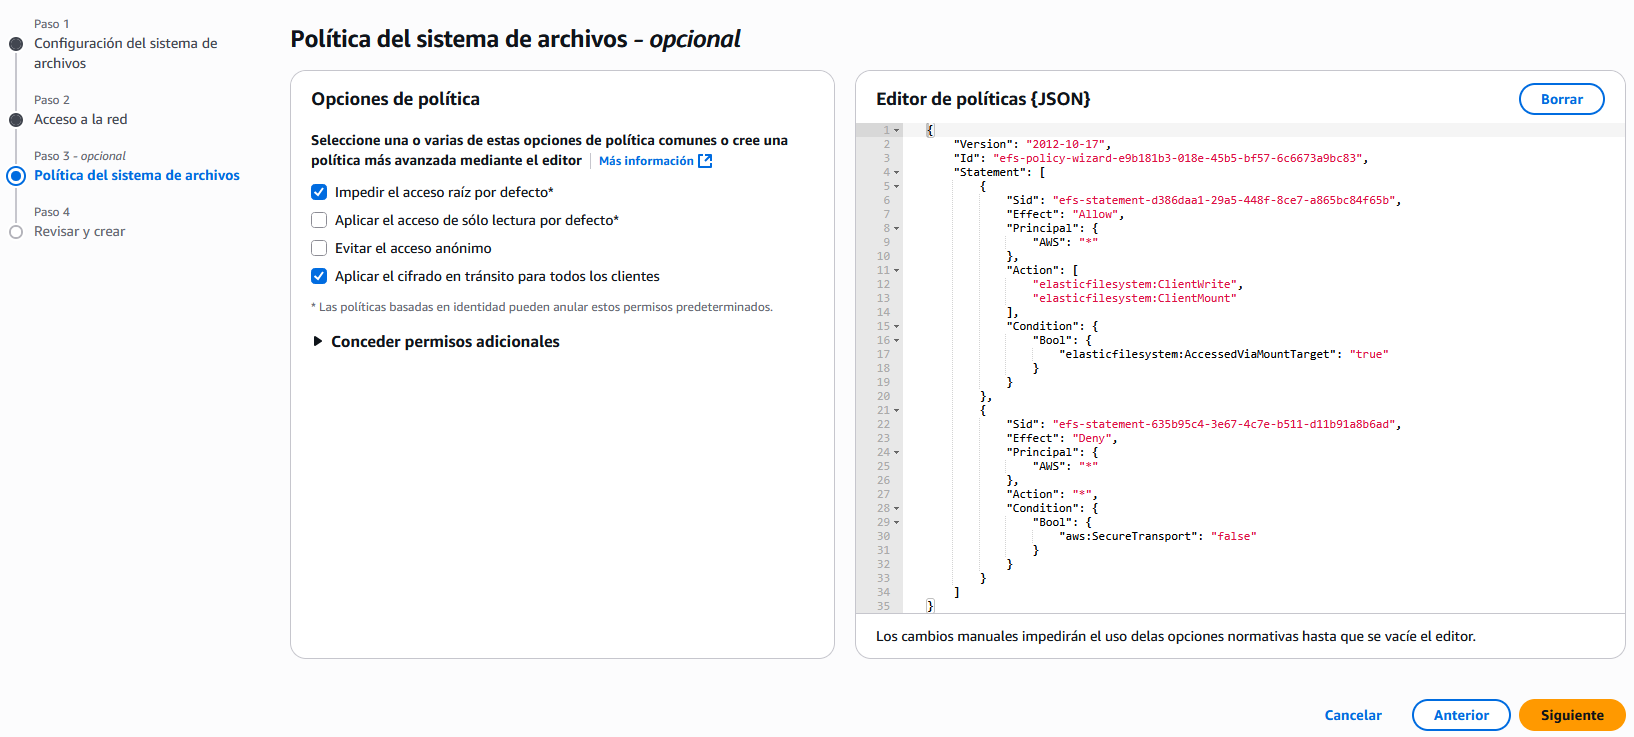
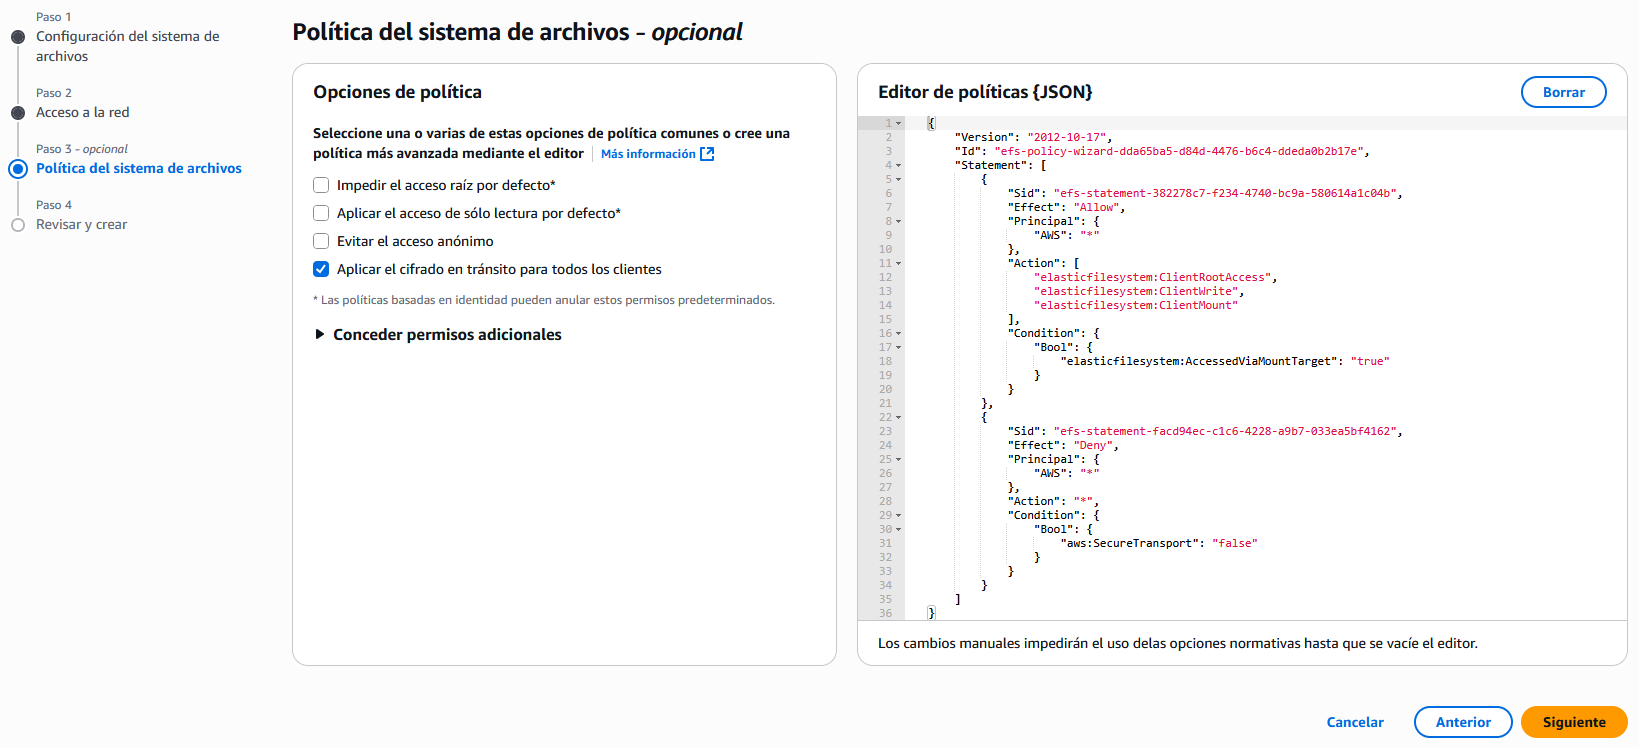
aws efs

diff --git a/docs/DAW/DAW_2/AWS/UT. 8-Buckets.md b/docs/DAW/DAW_2/AWS/UT. 8-Buckets.md
@@ -169,8 +169,8 @@ Primero crearemos el mismo grupo de seguridad para las 2 instancias y luego lanz
 ---
 
 #### **1.3.4 - Lanzamiento del EFS**
-- Antes de nada crearemos un grupo de seguridad para el EFS y lo configuraremos para que solo acepte conexiones NFS desde las instancias que hemos creado.  
-![Descripción de la imagen](./ut8/EFS/efs-3.png){.cien .marco .margintopbottom20} 
+- Antes de nada, crearemos un grupo de seguridad para el EFS y lo configuraremos para que solo acepte conexiones NFS desde los grupos de seguridad de las instancias que hemos creado.  
+![Descripción de la imagen](./ut8/EFS/efs-3-1.png){.cien .marco .margintopbottom20} 
  
 
 - Accedemos a los recursos de AWS EFS y creamos nuestro primer EFS.
@@ -183,11 +183,11 @@ Primero crearemos el mismo grupo de seguridad para las 2 instancias y luego lanz
     Elegimos los grupos de seguridad de los puntos de montaje para que el NFS solo acepte conexiones desde las instancias EC2 que hemos creado anteriormente.
 ![Descripción de la imagen](./ut8/EFS/efs-6.png){.sietecinco .marco .margintopbottom20}  
     - Paso 3  
-    Seleccionamos las políticas de acceso que impiden el acceso a la raíz de NFS así como el cifrado en tránsito.
-![Descripción de la imagen](./ut8/EFS/efs-7.png){.sietecinco .marco}  
+    Seleccionamos la política para el cifrado en tránsito.
+![Descripción de la imagen](./ut8/EFS/efs-7.png){.sietecinco .marco .margintopbottom20}  
     - Paso 4  
     Revisamos y creamos el NFS.
-![Descripción de la imagen](./ut8/EFS/efs-8.png){.sietecinco .marco}  
+![Descripción de la imagen](./ut8/EFS/efs-8.png){.sietecinco .marco .margintopbottom20}  
 
 #### **1.3.5 - Cliente NFS sobre instancias EC2**
 !!! warning "Repetiremos los pasos siguientes en cada instancia EC2"
@@ -195,9 +195,9 @@ Primero crearemos el mismo grupo de seguridad para las 2 instancias y luego lanz
 !!! tip "Crear el punto de montaje"
 Accedemos a las intancias EC2 y creamos el punto de montaje 
 ```bash
-mkdir ~/efs-punto-montaje
+mkdir ~/efs
 ```
-![Descripción de la imagen](./ut8/EFS/efs-9.png){.cincozero }  
+![Descripción de la imagen](./ut8/EFS/efs-9.png){.trescinco }  
 
 <br>
 
@@ -216,32 +216,35 @@ sudo yum install -y amazon-efs-utils
 
 <br>
 
-!!! tip "Montar el EFS con el helper de helper de AWS EFS"
-Realizaremos el montaje utilizando **el nombre de DNS** del sistema de archivos.
+!!! tip "Montar el EFS con el helper de AWS EFS"
+Realizaremos el montaje utilizando **el nombre de DNS** del sistema de archivos (podeís ver el comando completo pulsando **Asociar**).
 
 ![Descripción de la imagen](./ut8/EFS/efs-12.png){.cien .marco }  
+![Descripción de la imagen](./ut8/EFS/efs-12-1.png){.cien .marco }  
 ```bash
-sudo mount -t efs -o tls fs-0e32c02f9eb3ebd7e.efs.us-east-1.amazonaws.com efs-punto-montaje/ 
+sudo mount -t efs -o tls fs-003ab364472cbdb19:/ efs
 ```
-![Descripción de la imagen](./ut8/EFS/efs-13.png){.cien }  
+![Descripción de la imagen](./ut8/EFS/efs-13.png){.sietecinco }  
+
+<br>
+
+!!! tip "Primera prueba del EFS"
+Nos cambiamos al directorio donde hemos montado el EFS y hacemos una prueba de escritura.
+![Descripción de la imagen](./ut8/EFS/efs-14.png){.cincozero }  
+
+Si ahora, desde la otra instancia añadimos contenido al archivo de texto y lo leemos de nuevo, podremos ver la modificaciones aportadas.
+![Descripción de la imagen](./ut8/EFS/efs-15.png){.cuatrozero }  
 
 
 
-<!-- 4. Create a file on the file system
-5. Add a file system policy to enforce encryption in-transit
-6. Unmount (make sure to change directory out of efs-mount-point first)
-sudo umount ~/efs-mount-point
-4. Mount again using the EFS client (what happens?) -->
 
- 
+<!-- https://www.youtube.com/watch?v=BILHiDG72CA -->
 
 <!-- trabajar sobre esta:
 
-https://youtu.be/ExM6gaE0708?si=n5OU7lA5IPfRkquU&t=470 -->
+https://youtu.be/ExM6gaE0708?si=n5OU7lA5IPfRkquU&t=470 
+https://youtu.be/aAOC6oS445s?si=C2y71T_qttZtbaK7&t=1061 -->
 
-<!-- https://youtu.be/aAOC6oS445s?si=C2y71T_qttZtbaK7&t=1061 -->
-
-<!-- https://apuntes.de/aws/elastic-file-storage-system/#gsc.tab=0 -->
 <!-- https://www.youtube.com/watch?v=GG8PAAOUGBg -->
 <!-- https://apuntes.de/aws-certificacion-csaa/buckets/#gsc.tab=0 -->
 <!-- https://aitor-medrano.github.io/iabd2223/cloud/03s3.html -->
@@ -339,3 +342,7 @@ Guía del usuario [EFS](https://docs.aws.amazon.com/es_es/efs/latest/ug/mounting
     |**d)** Se ha diseñado arquitecturas escalables y resilientes basadas en las mejores prácticas.|20%|
     *|**e)** Se ha hecho uso de herramientas de monitoreo y recomendaciones de optimización.|10%|
     *|**f)** Se ha participado en actividades que simulen el análisis y mejora de arquitecturas existentes.|10%| -->
+
+
+
+

diff --git a/docs/SMX/SMX_1/AO/07_Presentaciones.md b/docs/SMX/SMX_1/AO/07_Presentaciones.md
@@ -315,13 +315,41 @@ Creación de patrones de diapositivas.
     El archivo a subir deberá ser de tipo **.odp** (formato predeterminado de LibreOffice Impress).  
     **No se aceptará ningún otro formato de archivo**.
 
+## **3 - Diseño amigable de una presentación**
+El diseño amigable de una presentación es aquel que se enfoca en la experiencia de la audiencia, priorizando la claridad, la legibilidad y la facilidad de comprensión. 
+
+![](./07_Presentaciones/img/contenidos/impress-1.png){.cuatrocinco}<br>  
+
+1. Unidad: Elementos relacionados que crean un todo armonioso.
+
+1. Equilibrio: Distribución visual para dar estabilidad.
+
+1. Contraste: Diferencias visuales (color, letra) para resaltar elementos.
+
+1. Jerarquía: Organización para guiar la mirada según la importancia.
+
+1. Proporción: Relación adecuada entre los tamaños de cada parte.
+
+1. Simetría: Equilibrio mediante formas y líneas simétricas.
+
+1. Movimiento: Sensación de dirección y flujo visual.
+
+
+
+
 ### **2.9 - Tarea RA7-CEc**
+
+
 <!-- file:///C:/Users/titan/Documents/Javier128/Modulos/SMX/SMX_1/AO/materiales/RA7/PresentacionesAtractivas.pdf -->
 
-
+<!-- https://mosaic.uoc.edu/ac/le/es/m2/ud5/index.html#considertypography -->
 <!--
 https://www.shutterstock.com/es/blog/teoria-color-guia-completa-disenadores
 https://www.picuino.com/es/informatica-tutoimpress.html?highlight=impress -->
+<!-- https://personal.us.es/juanj/powerp/5.3.principios_basicos.htm -->
+<!-- https://www.canva.com/es_mx/aprende/10-reglas-de-oro-para-combinar-fuentes-tips-disenador/ -->
+<!-- https://es.linkedin.com/advice/3/how-do-you-use-color-font-layout-enhance-your-presentation?lang=es&lang=es -->
+<!-- https://www.educa.jcyl.es/educacyl/cm/gallery/CCD/Area_2/A2.2_Presentaciones_e_infografias/1_principios_bsicos_compositivos.html -->
 
 ### **Tarea RA7-CEd-1 -**
 <!-- https://iesandresbojollo.es/tiyc/impress/14-Impress-Presentacion-Concesionario.html -->
